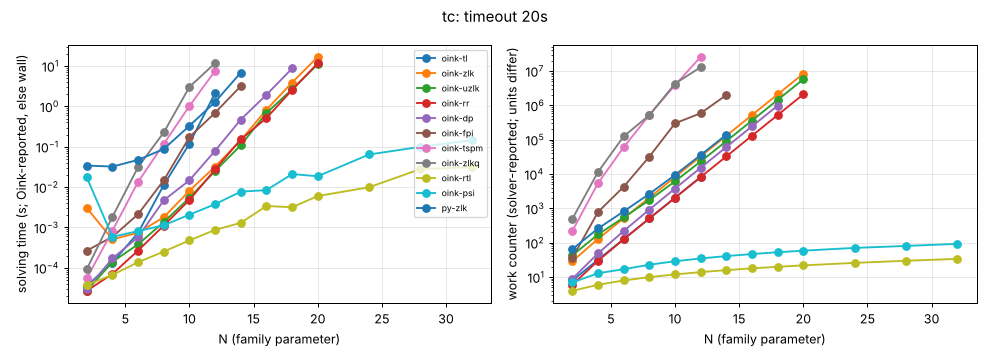
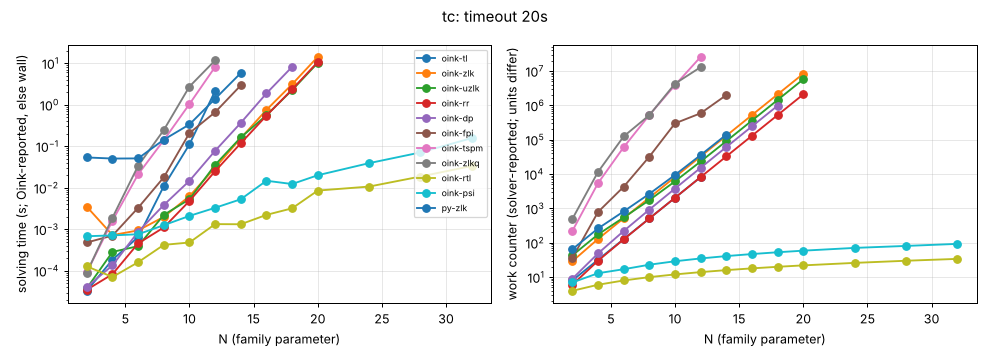
L-COMP: tc re-run with strategy checks (partial re-run in progress)
Claude-Session: https://claude.ai/code/session_014bbtNwaVKxFymHpXynjURn

diff --git a/experiments/hard-families/results/tc.md b/experiments/hard-families/results/tc.md
@@ -2,16 +2,16 @@ Family tc; generator `../../tools/oink/build/tc {N}`; timeout 20s per run; cell 
 
 | N | n | m | d | oink-tl (iterations) | oink-zlk (iterations) | oink-uzlk (iterations) | oink-rr (promotions) | oink-dp (promotions) | oink-fpi (iterations) | oink-tspm (lifts) | oink-zlkq (iterations) | oink-rtl (iterations) | oink-psi (major iterations) | py-zlk (iterations) |
 |---|---|---|---|---|---|---|---|---|---|---|---|---|---|---|
-| 2 | 22 | 36 | 11 | 8 / 3.6e-05 | 29 / 0.00302 | 43 / 2.7e-05 | 6 / 2.7e-05 | 9 / 3e-05 | 36 / 0.000268 | 221 / 5.5e-05 | 496 / 9.3e-05 | 4 / 3.8e-05 | 7 / 0.0173 | 65 / 0.0342 |
-| 4 | 68 | 128 | 19 | 32 / 0.000135 | 129 / 0.000507 | 175 / 0.000141 | 30 / 7.1e-05 | 49 / 0.000171 | 787 / 0.000588 | 5449 / 0.000837 | 11571 / 0.00185 | 6 / 6.7e-05 | 13 / 0.000588 | 261 / 0.0323 |
-| 6 | 138 | 276 | 27 | 128 / 0.000742 | 517 / 0.000746 | 545 / 0.000384 | 126 / 0.000269 | 220 / 0.00058 | 4284 / 0.00214 | 60768 / 0.0135 | 125167 / 0.0315 | 8 / 0.000138 | 17 / 0.000814 | 819 / 0.0473 |
-| 8 | 232 | 480 | 35 | 512 / 0.0113 | 2057 / 0.0018 | 1747 / 0.00136 | 510 / 0.00112 | 927 / 0.00472 | 32220 / 0.0148 | 524557 / 0.118 | 520204 / 0.226 | 10 / 0.000253 | 23 / 0.00114 | 2657 / 0.088 |
-| 10 | 350 | 740 | 43 | 2048 / 0.119 | 8205 / 0.00814 | 6157 / 0.00544 | 2046 / 0.00483 | 3790 / 0.0148 | 300449 / 0.174 | 3882653 / 1.03 | 4290402 / 3.04 | 12 / 0.000479 | 29 / 0.00208 | 9447 / 0.331 |
-| 12 | 492 | 1056 | 51 | 8192 / 2.15 | 32785 / 0.0323 | 23279 / 0.025 | 8190 / 0.0274 | 15289 / 0.0795 | 591355 / 0.696 | 25938757 / 7.6 | 13025476 / 11.8 | 14 / 0.000874 | 35 / 0.00378 | 35877 / 1.29 |
-| 14 | 658 | 1428 | 59 | timeout | 131093 / 0.145 | 91129 / 0.109 | 32766 / 0.152 | 61344 / 0.472 | 2000320 / 3.17 | timeout | timeout | 16 / 0.0013 | 41 / 0.00774 | 140699 / 6.85 |
-| 16 | 848 | 1856 | 67 | skipped | 524313 / 0.827 | 361771 / 0.685 | 131070 / 0.514 | 245635 / 1.94 | timeout | skipped | skipped | 18 / 0.0034 | 47 / 0.00841 | timeout |
-| 18 | 1062 | 2340 | 75 | skipped | 2097181 / 3.9 | 1443461 / 2.65 | 524286 / 2.55 | 982882 / 8.71 | skipped | skipped | skipped | 20 / 0.00317 | 53 / 0.021 | skipped |
-| 20 | 1300 | 2880 | 83 | skipped | 8388641 / 16.9 | 5769223 / 11.1 | 2097150 / 11.7 | timeout | skipped | skipped | skipped | 22 / 0.00602 | 59 / 0.0186 | skipped |
-| 24 | 1848 | 4128 | 99 | skipped | timeout | timeout | timeout | skipped | skipped | skipped | skipped | 26 / 0.00992 | 71 / 0.0644 | skipped |
-| 28 | 2492 | 5600 | 115 | skipped | skipped | skipped | skipped | skipped | skipped | skipped | skipped | 30 / 0.028 | 81 / 0.0993 | skipped |
-| 32 | 3232 | 7296 | 131 | skipped | skipped | skipped | skipped | skipped | skipped | skipped | skipped | 34 / 0.031 | 93 / 0.145 |  |
+| 2 | 22 | 36 | 11 | 8 / 3.3e-05 | 29 / 0.00349 | 43 / 3.8e-05 | 6 / 3.5e-05 | 9 / 4.1e-05 | 36 / 0.000481 | 221 / 9.2e-05 | 496 / 9.1e-05 | 4 / 0.000128 | 7 / 0.000681 | 65 / 0.0538 |
+| 4 | 68 | 128 | 19 | 32 / 0.000185 | 129 / 0.000725 | 175 / 0.000285 | 30 / 8.3e-05 | 49 / 0.000135 | 787 / 0.000706 | 5449 / 0.00162 | 11571 / 0.00191 | 6 / 7.1e-05 | 13 / 0.000713 | 261 / 0.0506 |
+| 6 | 138 | 276 | 27 | 128 / 0.000647 | 517 / 0.000941 | 545 / 0.000393 | 126 / 0.000457 | 220 / 0.00087 | 4284 / 0.0033 | 60768 / 0.0211 | 125167 / 0.0339 | 8 / 0.000161 | 17 / 0.00076 | 819 / 0.051 |
+| 8 | 232 | 480 | 35 | 512 / 0.0109 | 2057 / 0.00199 | 1747 / 0.00223 | 510 / 0.00111 | 927 / 0.00385 | 32220 / 0.0179 | 524557 / 0.14 | 520204 / 0.246 | 10 / 0.000422 | 23 / 0.00126 | 2657 / 0.144 |
+| 10 | 350 | 740 | 43 | 2048 / 0.111 | 8205 / 0.00629 | 6157 / 0.00529 | 2046 / 0.00481 | 3790 / 0.0147 | 300449 / 0.208 | 3882653 / 1.04 | 4290402 / 2.74 | 12 / 0.000481 | 29 / 0.0021 | 9447 / 0.335 |
+| 12 | 492 | 1056 | 51 | 8192 / 2.16 | 32785 / 0.0304 | 23279 / 0.0357 | 8190 / 0.0251 | 15289 / 0.0778 | 591355 / 0.66 | 25938757 / 8.18 | 13025476 / 11.7 | 14 / 0.00133 | 35 / 0.0033 | 35877 / 1.39 |
+| 14 | 658 | 1428 | 59 | timeout | 131093 / 0.157 | 91129 / 0.163 | 32766 / 0.118 | 61344 / 0.366 | 2000320 / 2.93 | timeout | timeout | 16 / 0.00132 | 41 / 0.00529 | 140699 / 5.81 |
+| 16 | 848 | 1856 | 67 | skipped | 524313 / 0.751 | 361771 / 0.559 | 131070 / 0.546 | 245635 / 1.88 | timeout | skipped | skipped | 18 / 0.00222 | 47 / 0.0148 | timeout |
+| 18 | 1062 | 2340 | 75 | skipped | 2097181 / 3.11 | 1443461 / 2.25 | 524286 / 2.33 | 982882 / 8.18 | skipped | skipped | skipped | 20 / 0.0032 | 53 / 0.0123 | skipped |
+| 20 | 1300 | 2880 | 83 | skipped | 8388641 / 14.3 | 5769223 / 10.2 | 2097150 / 10.7 | timeout | skipped | skipped | skipped | 22 / 0.00857 | 59 / 0.02 | skipped |
+| 24 | 1848 | 4128 | 99 | skipped | timeout | timeout | timeout | skipped | skipped | skipped | skipped | 26 / 0.0107 | 71 / 0.0392 | skipped |
+| 28 | 2492 | 5600 | 115 | skipped | skipped | skipped | skipped | skipped | skipped | skipped | skipped | 30 / 0.0187 | 81 / 0.0709 | skipped |
+| 32 | 3232 | 7296 | 131 | skipped | skipped | skipped | skipped | skipped | skipped | skipped | skipped | 34 / 0.0335 | 93 / 0.157 |  |
